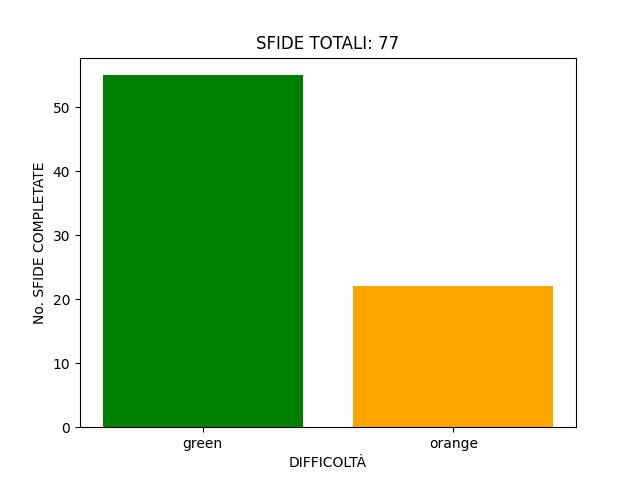
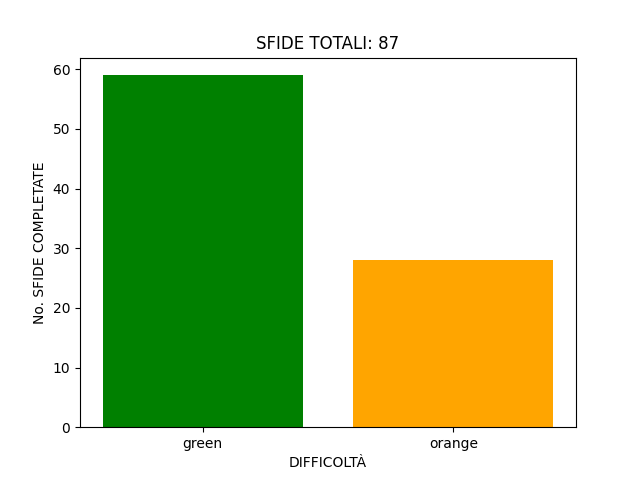
update

diff --git a/resources/helper.py b/resources/helper.py
@@ -1,8 +1,11 @@
 import matplotlib.pyplot as plt
+import numpy as np
+import requests
 
-
-file = open("info.txt","r+") 
-
+url = 'https://raw.githubusercontent.com/mariocuomo/LeetCode/main/README.md'
+page = requests.get(url)
+linee=page.text.split('\n')
+linee=linee[12:len(linee)-11]
 
 count_verdi=0
 count_arancioni=0
@@ -10,7 +13,7 @@ count_arancioni=0
 lstSpeed=[]
 lstMemory=[]
 
-for linea in file.readlines():
+for linea in linee:
 	#split riga con divisore |
 	parti = linea.split('|')
 	colore=parti[3]
@@ -60,20 +63,24 @@ plt.clf()
 
 
 #grafico speed
-plt.hist(lstSpeed,10)
+plt.hist(lstSpeed,20)
 plt.title("VELOCITÀ")
 plt.xlabel("PIU VELOCE DELL'x%")
 plt.ylabel("No. SFIDE COMPLETATE")
+plt.xticks(np.arange(0,105,5))
+plt.yticks(np.arange(0,13,1))
 plt.savefig('speed.png')
 
 plt.clf()
 
 
 #grafico memory
-plt.hist(lstMemory,10)
+plt.hist(lstMemory,20)
 plt.title("MEMORIA")
 plt.xlabel("MENO MEMORIA DELL'x%")
 plt.ylabel("No. SFIDE COMPLETATE")
+plt.xticks(np.arange(0,105,5))
+plt.yticks(np.arange(0,13,1))
 plt.savefig('memory.png')
 
 plt.clf()

diff --git a/README.md b/README.md
@@ -103,7 +103,7 @@ _Mario Cuomo_
   <img src="https://github.com/mariocuomo/LeetCode/blob/main/resources/bar.png" width="500">
   <img src="https://github.com/mariocuomo/LeetCode/blob/main/resources/speed.png" width="500">
   <img src="https://github.com/mariocuomo/LeetCode/blob/main/resources/memory.png" width="500">
-  <p>aggiornamento: 03.04.2022</p>
+  <p>aggiornamento: 06.04.2022</p>
 </div>
 
 
